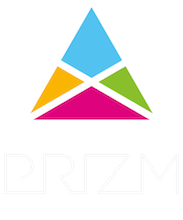
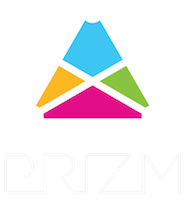
updated images

diff --git a/index.html b/index.html
@@ -30,7 +30,7 @@
 
     		margin: 50px auto 0 auto;
     		height: 220px;
-    		width: 183px;
+    		width: 185px;
     		background-image: url('img/identity.png');
     		background-repeat: no-repeat;
     	}
